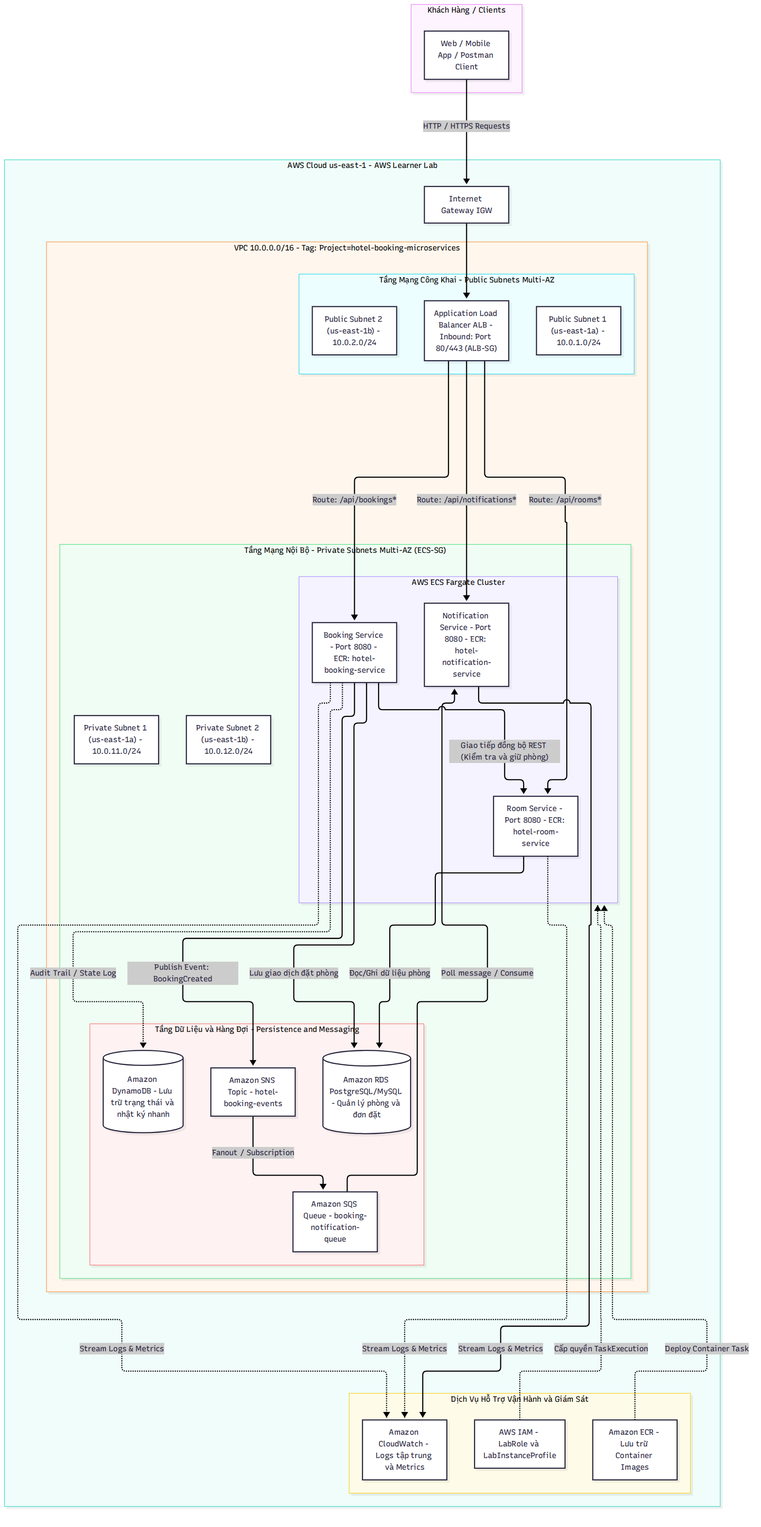
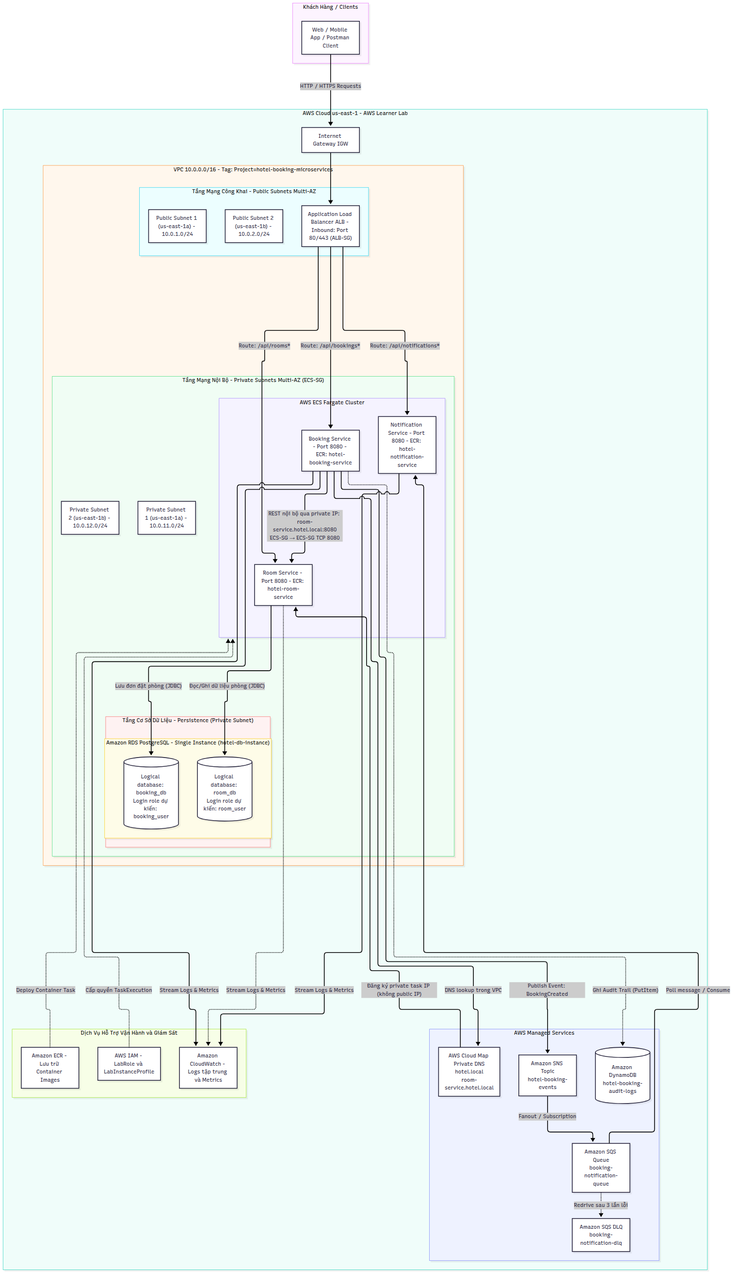
docs: address week 1 review feedback

diff --git a/docs/week-1/tasks.md b/docs/week-1/tasks.md
@@ -85,8 +85,8 @@ flowchart TB
 
                 subgraph DataLayer["Tầng Cơ Sở Dữ Liệu - Persistence (Private Subnet)"]
                     subgraph RDSInstance["Amazon RDS PostgreSQL - Single Instance (hotel-db-instance)"]
-                        RoomDB[("room_db (Schema riêng)<br/>User: room_user")]
-                        BookingDB[("booking_db (Schema riêng)<br/>User: booking_user")]
+                        RoomDB[("Logical database: room_db<br/>Login role dự kiến: room_user")]
+                        BookingDB[("Logical database: booking_db<br/>Login role dự kiến: booking_user")]
                     end
                 end
             end
@@ -97,6 +97,7 @@ flowchart TB
             SNSTopic["Amazon SNS Topic<br/>hotel-booking-events"]
             SQSQueue["Amazon SQS Queue<br/>booking-notification-queue"]
             SQSDLQ["Amazon SQS DLQ<br/>booking-notification-dlq"]
+            CloudMap["AWS Cloud Map Private DNS<br/>hotel.local<br/>room-service.hotel.local"]
         end
 
         subgraph Management["Dịch Vụ Hỗ Trợ Vận Hành và Giám Sát"]
@@ -116,7 +117,8 @@ flowchart TB
     ALB -->|"Route: /api/notifications*"| NotifSvc
 
     %% Service communication & persistence
-    BookingSvc -->|"Giao tiếp đồng bộ REST (Kiểm tra & khóa phòng)"| RoomSvc
+    BookingSvc -.->|"DNS lookup trong VPC"| CloudMap
+    BookingSvc -->|"REST nội bộ qua private IP: room-service.hotel.local:8080<br/>ECS-SG → ECS-SG TCP 8080"| RoomSvc
     RoomSvc -->|"Đọc/Ghi dữ liệu phòng (JDBC)"| RoomDB
     BookingSvc -->|"Lưu đơn đặt phòng (JDBC)"| BookingDB
     BookingSvc -.->|"Ghi Audit Trail (PutItem)"| DynamoDB
@@ -133,73 +135,64 @@ flowchart TB
     BookingSvc -.->|"Stream Logs & Metrics"| CloudWatch
     NotifSvc -.->|"Stream Logs & Metrics"| CloudWatch
     IAM -.->|"Cấp quyền TaskExecution"| ECSFargate
+    CloudMap -.->|"Đăng ký private task IP (không public IP)"| RoomSvc
 ```
+
+**Đường gọi nội bộ được chọn:** dùng AWS Cloud Map với private DNS namespace `hotel.local`; `booking-service` gọi `http://room-service.hotel.local:8080` để kiểm tra/giữ phòng. Cloud Map phân giải tên thành private IP của task trong VPC. Lưu lượng đi thẳng giữa các task qua cổng `8080`, được giới hạn bởi rule self-reference ECS-SG; ALB công khai chỉ là điểm vào cho client và không nằm trên đường gọi service-to-service. Các ECS task dự kiến chạy trong private subnet, không gán public IP.
+
+**Trạng thái triển khai:** AWS Console đã có rule ECS-SG cho TCP `8080` từ chính ECS-SG, nhưng tài khoản hiện chưa có ECS cluster/service nên private namespace, đăng ký Cloud Map và kiểm thử DNS/REST chưa được triển khai. Sơ đồ mô tả kiến trúc mục tiêu; không xem các phần chưa triển khai là tài nguyên đang chạy.
 
 ---
 
 ### 2. Sơ đồ luồng giao tiếp đồng bộ & bất đồng bộ (Service Communication & Event-Driven Flow)
 Mô tả chi tiết 2 cơ chế giao tiếp theo yêu cầu đề tài:
-- **Giao tiếp đồng bộ (Synchronous REST):** Khi Client đặt phòng, `booking-service` gọi REST trực tiếp sang `room-service` để xác nhận trạng thái phòng.
+- **Giao tiếp đồng bộ (Synchronous REST):** Khi Client đặt phòng, `booking-service` phân giải `room-service.hotel.local` bằng Cloud Map private DNS rồi gọi REST trực tiếp tới private IP của `room-service` qua TCP `8080` trong VPC. Request từ Client đi qua public ALB; service-to-service không đi qua public ALB và không dùng public IP.
 - **Giao tiếp bất đồng bộ (Asynchronous Event-Driven):** Sau khi đặt phòng thành công, `booking-service` gửi sự kiện vào `SNS Topic`, sự kiện được chuyển tiếp sang `SQS Queue`, và `notification-service` tiêu thụ hàng đợi để gửi thông báo xác nhận.
+- **Database Strategy:** Một RDS PostgreSQL instance chứa hai logical database độc lập (`room_db`, `booking_db`); mỗi service chỉ kết nối database của mình. Audit log ghi sang DynamoDB. Queue chính chuyển poison message sang DLQ sau 3 lần nhận lỗi.
 
 ![Sơ đồ luồng giao tiếp đồng bộ & bất đồng bộ](images/02-service-communication-flow.png)
+
+Nguồn Mermaid có thể chỉnh sửa: [`communication-pattern.mmd`](communication-pattern.mmd). Sơ đồ thể hiện kiến trúc mục tiêu; Cloud Map/ECS service discovery chưa triển khai vì ECS cluster chưa được tạo.
 
 ```mermaid
 sequenceDiagram
     autonumber
-    actor Client as Khách hàng (Client / Frontend)
-    participant ALB as Application Load Balancer
-    participant Booking as Booking Service (Port 8080)
-    participant Room as Room Service (Port 8080)
-    participant DB as Tầng Cơ Sở Dữ Liệu (RDS / DynamoDB)
-    participant SNS as Amazon SNS Topic (hotel-booking-events)
-    participant SQS as Amazon SQS Queue (booking-notification-queue)
-    participant DLQ as SQS Dead Letter Queue (booking-notification-dlq)
-    participant Notif as Notification Service (Port 8080)
-    participant CW as Amazon CloudWatch Logs
+    participant Client as Client
+    participant ALB as Public ALB
+    participant Booking as booking-service (ECS private)
+    participant CloudMap as Cloud Map private DNS
+    participant Room as room-service (ECS private)
+    participant RoomDB as RDS room_db
+    participant BookingDB as RDS booking_db
+    participant Audit as DynamoDB audit log
+    participant SNS as SNS topic
+    participant SQS as SQS main queue
+    participant Notif as notification-service
+    participant DLQ as SQS dead-letter queue
 
-    %% Bước 1: Tra cứu phòng
-    Note over Client, Room: Giai đoạn 1: Tra cứu và kiểm tra phòng (Đồng bộ - Sync REST)
-    Client->>ALB: GET /api/rooms
-    ALB->>Room: Path-based routing đến Room Service
-    Room->>DB: Truy vấn danh sách phòng khả dụng
-    DB-->>Room: Trả về dữ liệu phòng
-    Room-->>ALB: HTTP 200 OK (Danh sách phòng)
-    ALB-->>Client: Hiển thị thông tin phòng
-
-    %% Bước 2: Đặt phòng
-    Note over Client, SNS: Giai đoạn 2: Tạo đơn đặt phòng (Đồng bộ kết hợp Bất đồng bộ)
-    Client->>ALB: POST /api/bookings (Thông tin đặt phòng)
-    ALB->>Booking: Path-based routing đến Booking Service
-    Booking->>Room: REST call: GET /api/rooms/{id} (Kiểm tra và khóa phòng)
-    Room-->>Booking: Xác nhận phòng hợp lệ
-    Booking->>DB: Ghi nhận đơn đặt phòng (Trạng thái: PENDING/CONFIRMED)
-    DB-->>Booking: Ghi thành công
-    Booking->>SNS: Publish Message "BookingCreatedEvent"
-    SNS-->>Booking: Message Id xác nhận đã tiếp nhận
-    Booking-->>ALB: HTTP 201 Created (Đã tiếp nhận đặt phòng)
-    ALB-->>Client: Trả kết quả đặt phòng thành công
-
-    %% Bước 3: Xử lý thông báo bất đồng bộ
-    Note over SNS, DLQ: Giai đoạn 3: Xử lý thông báo xác nhận (Bất đồng bộ - Async SQS/SNS & DLQ)
-    SNS->>SQS: Tự động chuyển tiếp message sang hàng đợi (Fanout)
-    loop Polling hàng đợi định kỳ
-        Notif->>SQS: Long polling kiểm tra tin nhắn mới
-    end
-    SQS-->>Notif: Trả về Message "BookingCreatedEvent"
-    alt Xử lý thành công
-        Notif->>Notif: Gửi thông báo xác nhận (Email / SMS Mock)
-        Notif->>SQS: Xóa message khỏi Queue (ACK)
-    else Xử lý thất bại (Retry > 3 lần)
-        SQS->>DLQ: Tự động chuyển message sang DLQ (Redrive Policy maxReceiveCount=3)
-        DLQ-)CW: Cảnh báo quản trị viên về Poison Message
+    Note over Client, ALB: ALB la diem vao cong khai cho client, ECS tasks khong gan public IP
+    Client->>ALB: POST /api/bookings
+    ALB->>Booking: Route request vao booking-service
+    Booking->>CloudMap: Resolve room-service.hotel.local
+    CloudMap-->>Booking: Private task IP trong VPC
+    Note over Booking, Room: REST noi bo TCP 8080, ECS-SG chi cho phep ECS-SG -> ECS-SG
+    Booking->>Room: PUT /api/rooms/{id}/status (RESERVED)
+    Room->>RoomDB: JDBC: cap nhat trang thai phong
+    RoomDB-->>Room: Commit
+    Room-->>Booking: 200 OK / 409 CONFLICT
+    Booking->>BookingDB: JDBC: luu booking
+    Booking->>Audit: PutItem (bookingId, timestamp, state)
+    Booking->>SNS: Publish BookingCreatedEvent
+    SNS->>SQS: Fanout subscription (raw message)
+    Notif->>SQS: Long poll / ReceiveMessage
+    SQS-->>Notif: BookingCreatedEvent
+    alt Notification sent successfully
+        Notif->>SQS: DeleteMessage (ACK)
+    else Fails after maxReceiveCount = 3
+        SQS-->>DLQ: Redrive poison message
     end
 
-    %% Logging tập trung
-    Note over Room, CW: Giám sát tập trung (Observability)
-    Room-)CW: Push log luồng xử lý phòng
-    Booking-)CW: Push log luồng đặt phòng
-    Notif-)CW: Push log thông báo
+    Note over RoomDB, BookingDB: Mot RDS PostgreSQL instance chua hai logical database rieng biet, moi service chi ket noi database cua minh
 ```
 
 ---
@@ -225,7 +218,8 @@ sequenceDiagram
 | **Private Subnet 1** | `subnet-private-1` | `10.0.11.0/24` | `us-east-1a` | Chứa ECS Fargate Tasks & Data layer (Nội bộ) |
 | **Private Subnet 2** | `subnet-private-2` | `10.0.12.0/24` | `us-east-1b` | Chứa ECS Fargate Tasks & Data layer (Nội bộ) |
 | **ALB-SG** | `sg-hotel-alb` | Inbound: `80, 443` (`0.0.0.0/0`) | - | Nhận request từ Internet và chuyển tiếp nội bộ |
-| **ECS-SG** | `sg-hotel-ecs` | Inbound: `8080` (Từ `ALB-SG`) | - | ECS SG chỉ nhận cổng 8080 từ ALB SG, chặn hoàn toàn truy cập ngoài |
+| **ECS-SG** | `sg-hotel-ecs` | Inbound: TCP `8080` từ `ALB-SG` và từ chính `ECS-SG` | - | ALB chuyển request client vào service; self-reference cho phép Booking gọi Room qua private IP/DNS trong VPC, không mở cổng service ra Internet |
+| **RDS-SG** | `sg-hotel-rds` | Inbound: TCP `5432` từ `ECS-SG` | - | Chỉ workload ECS được kết nối PostgreSQL; không cho phép truy cập công khai |
 
 ---
 
@@ -237,7 +231,7 @@ Hệ thống kết hợp cả hai mô hình truyền thông: **Đồng bộ (Syn
 #### 5.1. Mô hình giao tiếp đồng bộ (Synchronous REST: Booking ➡ Room)
 Khi nhận yêu cầu tạo đơn từ khách hàng, `booking-service` gọi REST trực tiếp sang `room-service` trong mạng nội bộ VPC để kiểm tra trạng thái phòng và thực hiện khóa phòng (reserve):
 
-- **Đường truyền nội bộ:** Sử dụng DNS nội bộ qua Application Load Balancer hoặc AWS Cloud Map Service Discovery. Kết nối được bảo vệ hoàn toàn bởi `ECS-SG`, không mở ra Internet.
+- **Đường truyền nội bộ (phương án đã chọn):** AWS Cloud Map private DNS namespace `hotel.local`, tên dịch vụ `room-service.hotel.local`. `booking-service` gọi REST tại `http://room-service.hotel.local:8080`; DNS phân giải tới private IP task trong VPC, không đi qua public ALB và không dùng public IP. ECS-SG giới hạn TCP `8080` từ chính ECS-SG. Rule self-reference này đã có trên `hotel-booking-ecs-sg`; Cloud Map và ECS service registration chưa triển khai vì ECS cluster/service hiện chưa tồn tại.
 - **Bảng đặc tả API Contract giữa các Service:**
 
 | Phương thức | Endpoint | Service đích | Mục đích | Request Payload | Response mẫu | Mã HTTP |
@@ -315,10 +309,12 @@ Sau khi `booking-service` ghi nhận đơn đặt phòng thành công vào cơ s
 - **Nguyên tắc cốt lõi Microservices:** Mỗi dịch vụ phải tự làm chủ dữ liệu của mình (Loose Coupling). Tuyệt đối cấm các dịch vụ truy vấn hoặc join bảng trực tiếp sang database của dịch vụ khác.
 - **Ràng buộc hạ tầng AWS Learner Lab:** Hạn mức ngân sách cố định $100 và số lượng RDS instances bị giới hạn (tối đa 1–2 DB instance loại nhỏ). Nếu tạo riêng biệt 3 RDS instance cho 3 microservices sẽ gây cạn kiệt tài nguyên vCPU và chi phí vượt định mức.
 - **Giải pháp cách ly logic (Logical Database Isolation):**
-  - Nhóm khởi tạo **1 RDS PostgreSQL/MySQL Instance** (`hotel-db-instance`, cấu hình `db.t3.micro` / `db.t4g.micro`), nhưng phân tách thành **2 Logical Database / Schemas độc lập**:
-    - `room_db`: Cấp quyền sở hữu duy nhất cho tài khoản `room_user`.
-    - `booking_db`: Cấp quyền sở hữu duy nhất cho tài khoản `booking_user`.
-  - Tài khoản `room_user` không có bất kỳ quyền hạn nào trên `booking_db` và ngược lại. Giải pháp này đáp ứng trọn vẹn nguyên lý phân quyền, bảo mật của Microservices mà vẫn tối ưu chi phí trong khuôn khổ môn học.
+  - Nhóm sử dụng **1 RDS PostgreSQL instance** (`hotel-db-instance`) để tiết kiệm hạn mức, nhưng tạo **2 logical database riêng biệt** (database, không phải schema):
+    - `room_db`: mục tiêu cấp quyền kết nối cho login role `room_user`.
+    - `booking_db`: mục tiêu cấp quyền kết nối cho login role `booking_user`.
+  - Sau khi tạo các login role, `room_user` sẽ không có quyền trên `booking_db` và `booking_user` sẽ không có quyền trên `room_db`. Đây là phân quyền mục tiêu; tại thời điểm cập nhật, hai role này chưa được tạo.
+
+**Trạng thái AWS ngày 14/10/2026:** Hai database rỗng `room_db` và `booking_db` đã được tạo và xác minh trên RDS. Chưa tạo/xác minh hai login role, quyền sở hữu riêng hoặc bảng nghiệp vụ; không khẳng định hiện đã có phân quyền tách biệt ở tầng PostgreSQL.
 
 #### 6.2. Sơ đồ dữ liệu quan hệ & NoSQL (Data Model & ERD Diagram)
 

diff --git a/docs/week-1/linh/bao-cao-tuan-1.md b/docs/week-1/linh/bao-cao-tuan-1.md
@@ -151,7 +151,8 @@ Em đã truy cập IAM Console để kiểm tra quyền hạn của **`LabRole`*
 
 ### 7.1. Đặc tả Communication Pattern
 1. **Giao tiếp đồng bộ (REST Service-to-Service):**
-   - Xác định rõ giao thức gọi nội bộ giữa `booking-service` và `room-service` qua DNS của ALB / Service Discovery trong VPC, bảo mật qua Security Group `ECS-SG`.
+   - Chọn AWS Cloud Map làm service discovery nội bộ với private DNS namespace `hotel.local`; `booking-service` gọi `http://room-service.hotel.local:8080/api/rooms/{id}` và `/api/rooms/{id}/status`. Cloud Map phân giải tên thành private IP của ECS task trong VPC; request service-to-service đi trực tiếp qua mạng riêng, không đi qua public ALB và không dùng public IP.
+   - Security Group `hotel-booking-ecs-sg` cho phép inbound TCP `8080` từ chính ECS SG (self-reference), ngoài rule nhận traffic từ ALB SG. Do đó chỉ các task thuộc ECS SG được gọi nội bộ; không mở port service ra Internet.
    - Xây dựng bảng API Contract với các endpoint `/api/rooms/{id}` và `/api/rooms/{id}/status`, chuẩn hóa định dạng request/response JSON và các mã lỗi phân tán (`200 OK`, `404 NOT_FOUND`, `409 CONFLICT`).
    - Thiết lập các tham số chịu lỗi phân tán: Connection timeout 3s, Read timeout 5s, Retry tối đa 2 lần với Exponential Backoff.
 2. **Giao tiếp bất đồng bộ (Event-Driven SNS/SQS):**
@@ -161,7 +162,7 @@ Em đã truy cập IAM Console để kiểm tra quyền hạn của **`LabRole`*
 ### 7.2. Đặc tả Database Strategy
 1. **Mô hình Database-per-Service:**
    - Đảm bảo tính độc lập dữ liệu tuyệt đối giữa các microservice.
-   - Giải quyết bài toán hạn mức tài nguyên trên AWS Learner Lab ($100 budget): Đề xuất sử dụng 1 instance Amazon RDS nhưng tách biệt thành 2 logical databases độc lập (`room_db` và `booking_db`), cấp phát user riêng biệt (`room_user` và `booking_user`) cấm truy cập chéo.
+   - Giải quyết bài toán hạn mức tài nguyên trên AWS Learner Lab ($100 budget): dùng 1 instance Amazon RDS PostgreSQL nhưng tách thành 2 logical database độc lập (database, không phải schema) là `room_db` và `booking_db`. Mỗi service dự kiến dùng login role riêng (`room_user`, `booking_user`) và chỉ được CONNECT/đọc/ghi trong database của mình; không cấp quyền truy cập chéo.
 2. **Thiết kế mô hình dữ liệu (Data Modeling):**
    - **Cơ sở dữ liệu quan hệ (RDS):** Thiết kế chi tiết cấu trúc bảng `rooms` cho `room-service` và bảng `bookings` cho `booking-service`.
    - **Cơ sở dữ liệu NoSQL (DynamoDB):** Thiết kế bảng `hotel-booking-audit-logs` với Partition Key `bookingId` và Sort Key `timestamp` phục vụ ghi nhận nhật ký trạng thái (Audit Trail) tốc độ cao mà không làm nghẽn RDS.
@@ -171,9 +172,11 @@ Em đã truy cập IAM Console để kiểm tra quyền hạn của **`LabRole`*
 
 ---
 
+> **Cập nhật triển khai ngày 14/10/2026:** Hai logical database rỗng `room_db` và `booking_db` đã được tạo trên RDS; chưa tạo login role/phân quyền và bảng nghiệp vụ. DynamoDB audit table, SNS Standard topic, SQS queue, DLQ (`maxReceiveCount = 3`) và subscription SNS→SQS đã được kiểm tra trên AWS. ECS cluster/service chưa tồn tại nên Cloud Map namespace/registration và REST nội bộ mới là thiết kế, chưa thể nghiệm thử lúc này. Xem sơ đồ luồng đã render tại [`../images/02-service-communication-flow.png`](../images/02-service-communication-flow.png) và mã nguồn Mermaid [`../communication-pattern.mmd`](../communication-pattern.mmd).
+
 ## 8. Kết quả đạt được và kế hoạch tuần tiếp theo
 
-Sau tuần 1, em đã hoàn thành toàn bộ các hạng mục công việc được giao theo đúng kế hoạch:
+Trong tuần 1, em đã hoàn thành các hạng mục nền tảng về mã nguồn, container và thiết kế kiến trúc. Phần triển khai AWS được cập nhật đến ngày 14/10/2026 ở trên; các hạng mục còn lại được ghi rõ trong kế hoạch tuần 2:
 - Khởi tạo thành công khung mã nguồn chuẩn cho 3 microservices độc lập (`room-service`, `booking-service`, `notification-service`).
 - Xây dựng Dockerfile chuẩn multi-stage tối ưu hóa kích thước image và tốc độ đóng gói.
 - Đóng gói và kiểm thử container thành công trên môi trường cục bộ (cổng map `9096:8080`), xác nhận cả hai endpoint `/api/rooms` và `/actuator/health` hoạt động ổn định.

diff --git a/docs/week-2/phuc/bao-cao-tuan-2.md b/docs/week-2/phuc/bao-cao-tuan-2.md
@@ -5,20 +5,27 @@
 **Học phần:** Điện toán đám mây, đợt 1 năm học 2026–2027  
 **Môi trường:** AWS Academy Learner Lab, Region `us-east-1` (Account ID nhóm: `0556-5295-1832`)  
 **Repository:** https://github.com/pttlinh32/hotel-booking-microservices  
-**Phân công Tuần 2:** Hạ tầng Cloud (Amazon RDS 2 schemas, DynamoDB, SNS Topic, SQS Queue & DLQ, ALB Path-based Routing, ECS Fargate Cluster & Services). Số giờ thực hiện: 9.0 giờ.
+**Phân công Tuần 2:** Hạ tầng Cloud (Amazon RDS với 2 logical databases, DynamoDB, SNS Topic, SQS Queue & DLQ, ALB Path-based Routing, ECS Fargate Cluster & Services). Số giờ thực hiện: 9.0 giờ.
 
 ### Bảng phân công công việc tuần 2 (Worklog)
 | Thành viên | Nhiệm vụ chính | Số giờ | Trạng thái |
 |---|---|---|---|
 | Phan Thị Thùy Linh (`24110271`) | Lập trình Backend Spring Boot (JPA, REST, Event SDK), Build & Push ECR Images `v1.0.0`, Kiểm thử thành phần | 9.0 giờ | Đang thực hiện |
-| Cao Hoàng Phúc (`24110303`) | Khởi tạo RDS (2 schemas), DynamoDB, SNS/SQS/DLQ, ALB Path-based Routing, ECS Cluster & Service | 9.0 giờ | Đang thực hiện |
+| Cao Hoàng Phúc (`24110303`) | Khởi tạo RDS (2 logical databases), DynamoDB, SNS/SQS/DLQ, ALB Path-based Routing, ECS Cluster & Service | 9.0 giờ | Đang thực hiện |
+
+### Cập nhật tiến độ AWS ngày 14/10/2026
+- **Đã tạo/đã xác minh:** RDS PostgreSQL `hotel-db-instance` có hai logical database rỗng `room_db` và `booking_db`; DynamoDB `hotel-booking-audit-logs` (partition key `bookingId`, sort key `timestamp`); SNS Standard topic `hotel-booking-events`; SQS `booking-notification-queue` và DLQ `booking-notification-dlq`. Queue chính đã bật redrive sang DLQ với `maxReceiveCount = 3`.
+- **Đã kết nối luồng sự kiện:** Subscription SNS→SQS đã ở trạng thái `Confirmed`, bật Raw Message Delivery. Queue policy chỉ cho phép `sns.amazonaws.com` gửi từ topic `hotel-booking-events` trong cùng account.
+- **Đã kiểm tra bảo mật mạng:** RDS SG chỉ nhận PostgreSQL TCP `5432` từ ECS SG. ECS SG nhận TCP `8080` từ ALB SG và từ chính ECS SG để hỗ trợ giao tiếp service-to-service trong VPC; không cần gọi qua public IP.
+- **Máy quản trị tạm:** EC2 `hotel-db-init-temp` đã dừng sau khi khởi tạo RDS. Rule RDS mở tạm cho EC2 đã được gỡ. Instance vẫn còn EBS volume nên có thể tiếp tục tính phí lưu trữ; chưa terminate.
+- **Còn phải làm:** Tạo login role riêng và phân quyền database (`room_user`, `booking_user`), tạo/kiểm thử bảng nghiệp vụ; tạo ECS cluster/services và Cloud Map private DNS để đăng ký `room-service.hotel.local`, rồi kiểm thử lời gọi REST nội bộ. Hiện AWS chưa có ECS cluster, do đó Cloud Map service discovery chưa hoạt động; sơ đồ kiến trúc trong tài liệu ghi rõ đây là mục tiêu thiết kế.
 
 ---
 
 ## 1. Khởi tạo Cơ sở dữ liệu quan hệ Amazon RDS
 - Tạo Subnet Group trải trên 2 Private Subnets.
 - Khởi tạo 1 Database Instance loại `db.t3.micro` với security group `sg-hotel-rds`.
-- Tạo 2 logical database / schema độc lập: `room_db` (user: `room_user`) và `booking_db` (user: `booking_user`).
+- Tạo 2 logical database độc lập: `room_db` (dự kiến dùng login role `room_user`) và `booking_db` (dự kiến dùng login role `booking_user`). Hai database đã tạo, còn login role và phân quyền cần hoàn tất.
 
 ---
 

diff --git a/docs/week-1/phuc/bao-cao-tuan-1.md b/docs/week-1/phuc/bao-cao-tuan-1.md
@@ -9,9 +9,9 @@
 **Repository:** https://github.com/pttlinh32/hotel-booking-microservices  
 **Ngày thực hiện:** 09/10/2026
 
-> **Cập nhật bổ sung ngày 14/10/2026:** RDS PostgreSQL `hotel-db-instance` nằm trong private subnet nên máy cá nhân không có đường mạng trực tiếp tới endpoint. AWS Academy Learner Lab không cung cấp sẵn kết nối VPN/đường truy cập từ máy cá nhân vào VPC cho trường hợp này; CloudShell cũng không nằm trong VPC để kết nối trực tiếp tới RDS. Vì vậy, em tạo EC2 tạm trong VPC, cài `psql` và dùng EC2 làm máy quản trị để khởi tạo database. Đã tạo và xác minh hai logical database `room_db` và `booking_db`. Sau khi khởi tạo, rule truy cập tạm từ EC2 đã được gỡ; RDS Security Group chỉ còn cho phép ECS Security Group truy cập cổng PostgreSQL `5432`. EC2 khởi tạo đã được gửi lệnh dừng và đang chuyển trạng thái dừng. Đây là cập nhật tiến độ hạ tầng, không thay đổi thời điểm thực hiện các công việc tuần 1 nêu bên dưới.
+> **Cập nhật bổ sung ngày 14/10/2026:** RDS PostgreSQL `hotel-db-instance` nằm trong private subnet nên máy cá nhân không có đường mạng trực tiếp tới endpoint. AWS Academy Learner Lab không cung cấp sẵn kết nối VPN/đường truy cập từ máy cá nhân vào VPC cho trường hợp này; CloudShell cũng không nằm trong VPC để kết nối trực tiếp tới RDS. Vì vậy, em tạo EC2 tạm trong VPC, cài `psql` và dùng EC2 làm máy quản trị để khởi tạo database. Đã tạo và xác minh hai logical database `room_db` và `booking_db`. Sau khi khởi tạo, rule truy cập tạm từ EC2 đã được gỡ; RDS Security Group chỉ còn cho phép ECS Security Group truy cập cổng PostgreSQL `5432`. EC2 khởi tạo hiện ở trạng thái `Stopped`. Đây là cập nhật tiến độ hạ tầng, không thay đổi thời điểm thực hiện các công việc tuần 1 nêu bên dưới.
 
-> **Phạm vi đã hoàn tất:** Mới tạo hai database rỗng. Tạo user riêng `room_user`/`booking_user`, thiết lập quyền truy cập riêng và tạo bảng nghiệp vụ vẫn cần thực hiện; bảng DynamoDB `hotel-booking-audit-logs` cùng SNS/SQS và DLQ cũng chưa được xác nhận triển khai trong cập nhật này.
+> **Cập nhật phạm vi ngày 14/10/2026:** Hai RDS database hiện vẫn rỗng; login role riêng `room_user`/`booking_user`, phân quyền và bảng nghiệp vụ chưa hoàn tất. Đã xác minh DynamoDB `hotel-booking-audit-logs`, SNS Standard topic `hotel-booking-events`, SQS `booking-notification-queue`, DLQ `booking-notification-dlq` với `maxReceiveCount = 3`, cùng subscription SNS→SQS ở trạng thái Confirmed. ECS cluster/service chưa được tạo nên Cloud Map private DNS và kiểm thử REST nội bộ vẫn là việc cần triển khai.
 
 Ảnh trong báo cáo này chụp trên tài khoản Learner Lab của Cao Hoàng Phúc (Account ID xem trong ảnh images/09-console-context.png). Từ tuần 2, nhóm triển khai trên tài khoản của Phan Thị Thùy Linh theo sự đồng ý của GVHD.
 

diff --git a/docs/week-2/tasks.md b/docs/week-2/tasks.md
@@ -14,7 +14,7 @@
 
 | STT | Thành viên | MSSV | Vai trò chính trong Tuần 2 | Số giờ dự kiến | Trạng thái |
 |:---:|---|:---:|---|:---:|:---:|
-| 1 | **Cao Hoàng Phúc** | `24110303` | **Cloud Infrastructure & DevOps:** Khởi tạo RDS (2 schemas), DynamoDB, SNS/SQS/DLQ, ALB Path-based Routing, ECS Cluster & Service. | 9.0 giờ | Đang thực hiện |
+| 1 | **Cao Hoàng Phúc** | `24110303` | **Cloud Infrastructure & DevOps:** Khởi tạo RDS (2 logical databases), DynamoDB, SNS/SQS/DLQ, ALB Path-based Routing, ECS Cluster & Service. | 9.0 giờ | Đang thực hiện |
 | 2 | **Phan Thị Thùy Linh** | `24110271` | **Backend & Containerization:** Viết code JPA, REST internal call, SNS Producer, SQS Listener, Docker Build & Push ECR Images (`v1.0.0`). | 9.0 giờ | Đang thực hiện |
 
 ---
@@ -125,7 +125,7 @@
 ## 🔄 QUY TRÌNH PHỐI HỢP LIÊN TỤC GIỮA 2 THÀNH VIÊN
 
 ```
-[BƯỚC 1 - Phúc]: Tạo RDS (2 schemas), DynamoDB, SNS Topic, SQS Queue & DLQ trên AWS
+[BƯỚC 1 - Phúc]: Tạo RDS (2 logical databases), DynamoDB, SNS Topic, SQS Queue & DLQ trên AWS
        │
        ▼ (Bàn giao: Database Host Endpoint, Credentials, SNS ARN, SQS URL)
 [BƯỚC 2 - Linh]: Viết code JPA, gọi REST nội bộ, cấu hình AWS SDK producer/consumer
@@ -149,7 +149,7 @@
 
 1. **Minh chứng Hạ tầng (Phúc):**
    - [ ] Ảnh 1: Amazon RDS Instance đang chạy (loại `db.t3.micro`, Private Subnet, tag đầy đủ).
-   - [ ] Ảnh 2: Hai schema/database `room_db` và `booking_db` trên RDS.
+   - [ ] Ảnh 2: Hai logical database `room_db` và `booking_db` trên cùng RDS PostgreSQL instance.
    - [ ] Ảnh 3: Bảng Amazon DynamoDB `hotel-booking-audit-logs` (Partition Key `bookingId`, Sort Key `timestamp`).
    - [ ] Ảnh 4: Amazon SNS Topic `hotel-booking-events` và Subscription liên kết tới SQS.
    - [ ] Ảnh 5: Amazon SQS Main Queue (`booking-notification-queue`) và Dead Letter Queue (`booking-notification-dlq`).

diff --git a/docs/week-2/linh/bao-cao-tuan-2.md b/docs/week-2/linh/bao-cao-tuan-2.md
@@ -11,7 +11,7 @@
 | Thành viên | Nhiệm vụ chính | Số giờ | Trạng thái |
 |---|---|---|---|
 | Phan Thị Thùy Linh (`24110271`) | Lập trình Backend Spring Boot (JPA, REST, Event SDK), Build & Push ECR Images `v1.0.0`, Kiểm thử thành phần | 9.0 giờ | Đang thực hiện |
-| Cao Hoàng Phúc (`24110303`) | Khởi tạo RDS (2 schemas), DynamoDB, SNS/SQS/DLQ, ALB Path-based Routing, ECS Cluster & Service | 9.0 giờ | Đang thực hiện |
+| Cao Hoàng Phúc (`24110303`) | Khởi tạo RDS (2 logical databases), DynamoDB, SNS/SQS/DLQ, ALB Path-based Routing, ECS Cluster & Service | 9.0 giờ | Đang thực hiện |
 
 ---
 
